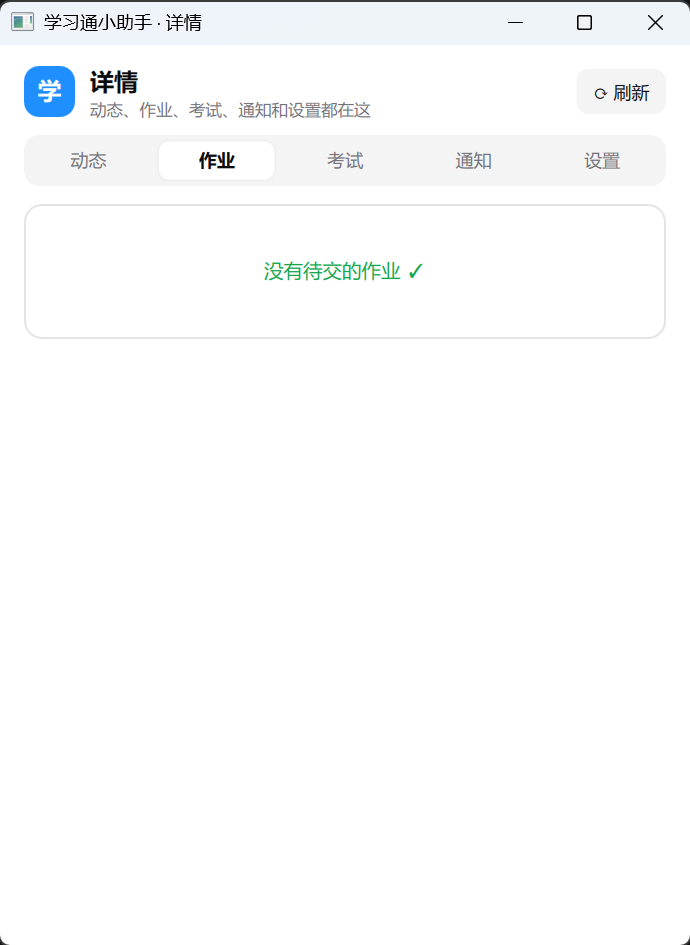
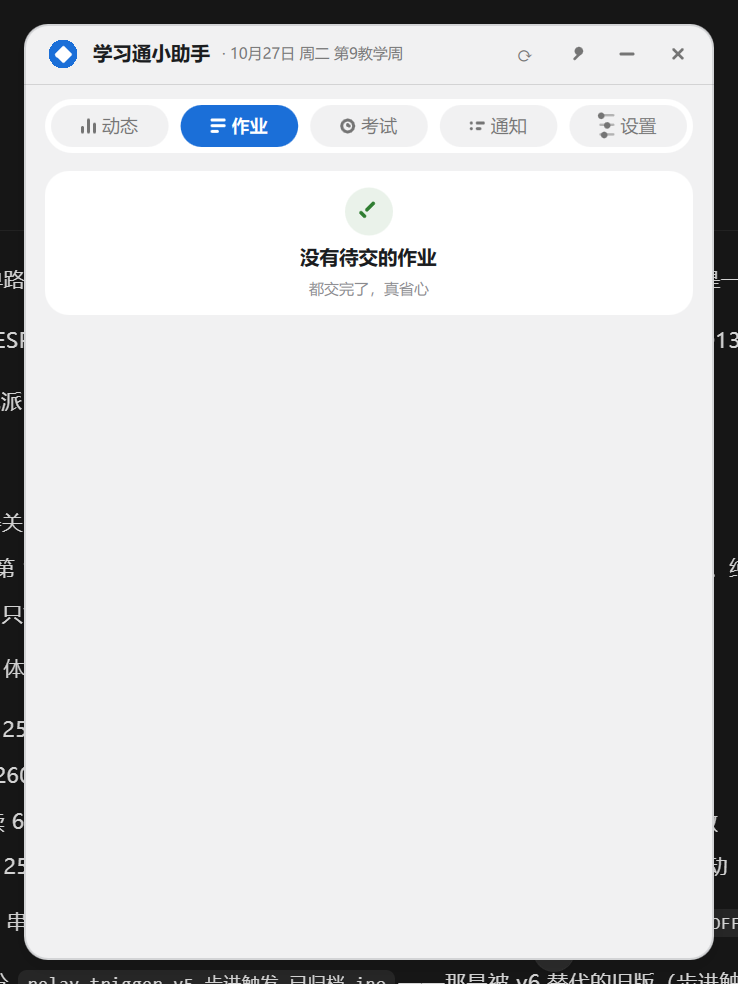
chore: 项目更名 xuexitong-cli v2.0.0 + README/截图全面整理
- pyproject: name=xuexitong-cli version=2.0.0，入口规范化 xuexitong-mcp/xuexitong-cli/xxt/xuexitong-assistant，Homepage 指向新仓
- README: 三件套定位（CLI+MCP+桌面助手）、CLI 补 next/chapters/notice --full/hw --course 与 --json 全命令说明、桌面助手 v4.0 段落（FLstyle/无框详情窗/单窗口在场/动效）、安装与配置路径全部指向新仓
- 截图全部换 R8 最新 UI；移除含第三方发件人姓名的通知页截图
- 清理误入库调试台架 _r2_shots.py；ics PRODID/UID 命名空间随项目名更新
- 推送前凭据扫描通过（敏感运行期文件零跟踪、内容无凭据命中）

Changed region(s): [[0.0, 0.0, 1.0, 1.0], [0.3652, 0.2455, 0.6087, 0.3069], [0.6391, 0.1228, 0.7304, 0.1841]]

diff --git a/xuexitong_mcp/client.py b/xuexitong_mcp/client.py
@@ -354,7 +354,7 @@ def build_ics(lessons: list[dict], curriculum: dict, cal_name: str = "课表") -
     if not section_times:
         raise RuntimeError("课表缺少 lessonTimeConfigArray（节次时间表），无法确定上下课时间")
     lines = ["BEGIN:VCALENDAR", "VERSION:2.0",
-             "PRODID:-//Xuexitong-mcp//schedule//CN",
+             "PRODID:-//xuexitong-cli//schedule//CN",
              f"X-WR-CALNAME:{escape_ics(cal_name)}"]
     for les in lessons:
         begin = int(les.get("beginNumber") or 1)
@@ -368,7 +368,7 @@ def build_ics(lessons: list[dict], curriculum: dict, cal_name: str = "课表") -
         dow = int(les.get("dayOfWeek") or 1)
         for w in expand_weeks(les.get("weeks")):
             day = first_monday + timedelta(days=(w - 1) * 7 + dow - 1)
-            uid = f"{les.get('lessonId') or 'l'}-{begin}-{w}@Xuexitong-mcp"
+            uid = f"{les.get('lessonId') or 'l'}-{begin}-{w}@xuexitong-cli"
             lines += ["BEGIN:VEVENT",
                       f"UID:{uid}",
                       f"SUMMARY:{escape_ics(name)}",

diff --git a/xuexitong_server.py b/xuexitong_server.py
@@ -1,9 +1,9 @@
 # -*- coding: utf-8 -*-
-r"""Xuexitong-mcp 兼容入口。
+r"""直接运行入口（兼容旧 MCP 配置写法）。
 
 旧版 MCP 配置直接指向本文件；实际实现已重构为 xuexitong_mcp/ 包
 （client.py 接口层 + server.py 工具层），行为与旧单文件版兼容。
-新装推荐用 `pip install .` 后运行 `Xuexitong-mcp` 或 `python -m xuexitong_mcp`。
+新装推荐用 `pip install .` 后运行 `xuexitong-mcp` 或 `python -m xuexitong_mcp`。
 
 工具总览（16 个，全部只读查询）：
     login            登录并持久化会话

diff --git a/xuexitong_mcp/server.py b/xuexitong_mcp/server.py
@@ -489,7 +489,7 @@ def list_pan_files(folder_id: str = "") -> str:
 
 
 def main() -> None:
-    """stdio 入口（python -m xuexitong_mcp / Xuexitong-mcp 命令）。"""
+    """stdio 入口（python -m xuexitong_mcp / xuexitong-mcp 命令）。"""
     mcp.run()
 
 

diff --git a/xuexitong_mcp/__init__.py b/xuexitong_mcp/__init__.py
@@ -1,5 +1,5 @@
 # -*- coding: utf-8 -*-
-"""Xuexitong-mcp — 学习通（超星）只读查询 MCP Server。"""
+"""xuexitong-cli — 学习通（超星）只读查询 MCP Server。"""
 
 __version__ = "1.4.1"
 __all__ = ["__version__"]

diff --git a/tests/run_tests.py b/tests/run_tests.py
@@ -1,5 +1,5 @@
 # -*- coding: utf-8 -*-
-"""Xuexitong-mcp 纯逻辑单元测试。
+"""xuexitong-cli 纯逻辑单元测试。
 
 零依赖可直接运行：  python tests/run_tests.py
 也可用 pytest：     pytest tests/ -v

diff --git a/README.md b/README.md
@@ -1,10 +1,10 @@
-# Xuexitong-mcp
+# xuexitong-cli
 
-> 原名 `chaoxing-mcp`，2026-09 起更名为 `Xuexitong-mcp`（GitHub 旧地址自动重定向，包名同步改为 `xuexitong_mcp`）。
+> 曾用名 `chaoxing-mcp` → `Xuexitong-mcp`（GitHub 旧地址自动重定向，Python 包名保持 `xuexitong_mcp` 不变）。
 
-学习通（超星）MCP Server + 桌面小助手 —— 把你的课表（含 .ics 日历导出）、作业截止、考试、章节进度、通知、云盘接进任意 MCP 客户端（ZCode / Claude Desktop / Cursor 等），或在桌面上挂一个常驻的"学习通小助手"悬浮窗。
+学习通（超星）三件套：**命令行 `xxt` + MCP Server + 桌面常驻小助手** —— 课表（含 .ics 日历导出）、作业截止、考试、章节任务点、通知、资料下载、云盘，全只读。终端党用 `xxt`，agent 党接 MCP（ZCode / Claude Desktop / Cursor 等），不想动手就挂桌面悬浮窗让它替你盯着。
 
-全部接口均经真实账号实测验证（2026-09）。
+全部接口均经真实账号实测验证（2026-09 ～ 2026-10）。
 
 ## 工具列表（16 个）
 
@@ -61,15 +61,15 @@
 ## 安装
 
 ```bash
-git clone https://github.com/DanMo661/Xuexitong-mcp.git
-cd Xuexitong-mcp
+git clone https://github.com/DanMo661/xuexitong-cli.git
+cd xuexitong-cli
 pip install -r requirements.txt   # requests / pycryptodome / mcp / PySide6 / windows-toasts / pywin32
 ```
 
 Python >= 3.10。也可以安装为命令（可选）：
 
 ```bash
-pip install .        # 之后得到 Xuexitong-mcp 命令，等价于 python -m xuexitong_mcp
+pip install .        # 得到 xuexitong-mcp / xuexitong-cli / xxt / xuexitong-assistant 四个命令
 ```
 
 ## 凭据配置（三选一，优先级从高到低）
@@ -89,18 +89,18 @@ copy config.example.json config.json   # Linux: cp
 
 ```jsonc
 // 1. 源码直接运行（clone 后免安装）
-{ "command": "python", "args": ["D:/path/to/Xuexitong-mcp/xuexitong_server.py"] }
+{ "command": "python", "args": ["D:/path/to/xuexitong-cli/xuexitong_server.py"] }
 
 // 2. 模块方式运行
-{ "command": "python", "args": ["-m", "xuexitong_mcp"], "cwd": "D:/path/to/Xuexitong-mcp" }
+{ "command": "python", "args": ["-m", "xuexitong_mcp"], "cwd": "D:/path/to/xuexitong-cli" }
 
 // 3. pip install . 之后用命令名
-{ "command": "Xuexitong-mcp" }
+{ "command": "xuexitong-mcp" }
 ```
 
 外层按客户端惯例包一层：ZCode 写在 `~/.zcode/cli/config.json` 的 `mcp.servers` 下，Claude Desktop 写在 `claude_desktop_config.json` 的 `mcpServers` 下。Windows 下 `command` 建议写 python 绝对路径（如 `D:/Python/python.exe`）。
 
-## 学习通小助手（桌面常驻助手 v3.0）
+## 学习通小助手（桌面常驻助手 v4.0）
 
 不想开对话、也不想再点开学习通 App？`assistant/` 是完整的桌面常驻助手：**巡检引擎 + Windows 通知 + PySide6/QML 悬浮窗 + 托盘**，学习通有新作业/资料/通知/出分时主动送达，你只需要看一眼桌面。
 
@@ -124,23 +124,25 @@ python -m venv .venv
 - **人性化规则**：默认免打扰 23:00–07:30；正在上课时自动静默（下课补弹）；红色只留给紧急事项
 - **通知通道**：Windows 原生 Toast（进通知中心，**可点击直接跳到对应页面**；windows-toasts 优先、winotify 回退）+ 应用内时间线 + 可选邮件备份通道（SMTP 授权码，默认关）
 
-### 悬浮窗（cc-switch 浅色设计语言）
+### 悬浮窗（FLstyle 工具类设计语言）
 
-- **迷你态**（360×64）：品牌块 + 三态状态点（上课中蓝呼吸 / 30 分钟内要上课橙 / 平时灰）+ 当前/下一节课与倒计时；点顶栏展开收起；**Alt+Shift+C 全局热键**随时唤起/隐藏；拖拽贴边磁吸
-- **展开卡**（360×540，四标签页）：
-  - **今天**：课程手风琴（进行中/同时段/已结束三态，点行展开老师·节次·周次）、DDL 横幅、考试横幅、任务点缺口摘要
-  - **课表**：周网格（时间轨当前节胶囊 + **当前时间红线**、连堂合并满铺色块、周次导航翻周）
+- **迷你态**（360×64）：花形印章品牌位 + 三态状态点（上课中蓝呼吸 / 30 分钟内要上课橙 / 平时灰）+ 当前/下一节课与倒计时药丸；点顶栏展开收起；**Alt+Shift+C 全局热键**随时唤起/隐藏；拖拽贴边磁吸
+- **展开卡**（360×540，四标签页，白色 Stadium 分段器导航）：
+  - **今天**：课程手风琴（进行中/同时段/已结束三态，点行展开老师·节次·周次）、今日概览卡、DDL 横幅、考试横幅、任务点缺口摘要
+  - **课表**：周网格（时间轨当前节胶囊 + **当前时间红线**、连堂合并满铺色块、按住拖动翻周）
   - **作业**：DDL 看板（紧迫度变色、过期沉底）；**右键作业卡 → 在学习通打开 / 不再提醒**（自动复制作业名）
   - **动态**：巡检事件时间线（出分带分数、考试带时间）
-- **详情窗**（托盘/右键进入，五标签页）：动态 / 作业（悬停出「去交 ↗」「✕ 忽略」按钮，底部恢复入口）/ 考试+任务点 / 通知中心（全部·未读过滤）/ 设置（巡检间隔、免打扰、Toast、开机自启、**导出课表 .ics 到手机日历**、邮件）
-- **托盘常驻**：双击显隐小窗；右键菜单承载全部入口；单实例锁防双开；位置自动记忆
+- **详情窗**（460×624，无框自绘标题栏：拖拽/置顶图钉/最小化/关闭）：动态 / 作业（悬停出「去交 ↗」「✕ 忽略」按钮，底部恢复入口）/ 考试+任务点 / 通知中心（全部·未读过滤）/ 设置（巡检间隔、免打扰、Toast、开机自启、**导出课表 .ics 到手机日历**、邮件）
+- **单窗口在场**：小窗与详情窗同一时刻只显示一个——详情窗打开时小窗自动退场，关闭/最小化详情窗即回到小窗；详情窗位置记忆
+- **动效**：FLstyle 值渐变体系——开关窗淡入淡出、页切换交叉淡化、列表卡片错峰入场、分段器原位迁移、进度条宽度渐变（零位移）
+- **托盘常驻**：双击显隐小窗；右键菜单承载全部入口；单实例锁防双开（命名互斥量 + 具名管道双保险）；位置自动记忆
 - **开机自启**：设置页一键开关（HKCU Run 注册表直指 pythonw 无黑框，可在任务管理器启动页管理）
 
 ![小窗-今天](docs/shot_t0.png)
 ![小窗-课表](docs/shot_t1.png)
 ![小窗-作业](docs/shot_t2.png)
+![详情窗-动态时间线](docs/shot_d0.png)
 ![详情窗-考试与任务点](docs/shot_d2.png)
-![详情窗-通知中心](docs/shot_d3.png)
 
 ### 无 GUI 模式（服务器/调试）
 
@@ -150,7 +152,7 @@ python -m venv .venv
 .venv\Scripts\python -m assistant.app --screenshot out.png   # UI 自截图
 ```
 
-## 命令行 xxt（xuexitong-cli，v1.0）
+## 命令行 xxt
 
 不打开浏览器、不进 GUI，终端里直接查——像 bili-cli 之于 B 站。安装
 （`pip install -e .`）后两个入口等价：`xuexitong-cli` / `xxt`，也可以
@@ -161,12 +163,14 @@ python -m venv .venv
 
 ```bash
 xxt today                     # 今天有什么课（含进行中/已结束状态）
-xxt today --json              # JSON 输出（today/hw/exam/notice/progress 均支持）
+xxt next                      # 下一节课 + 人话倒计时（今天课上完自动找明天/下周，14 天范围）
 xxt week [12]                 # 本周 / 第 12 周课表（按天分组）
 xxt hw                        # 待交作业截止看板（默认只看本学期）
+xxt hw --course 数字信号        # 只看一门课的作业
 xxt exam                      # 考试安排（默认只看本学期，--all 看全部）
-xxt notice [--unread]         # 通知中心
+xxt notice [--unread]         # 通知中心（--full 展开正文）
 xxt progress                  # 任务点进度（默认只看本学期）
+xxt chapters 数字信号处理       # 章节任务点明细树（--todo 只看没刷完的小节）
 xxt courses                   # 课程列表（★=本学期课表内，含任课老师）
 xxt whoami                    # 姓名/学校/uid
 xxt materials 数字信号处理    # 课程资料区（含下载用编号）
@@ -177,13 +181,12 @@ xxt pan <文件夹id>            # 云盘下钻一层
 xxt ics -o 课表.ics           # 全学期课表导出日历
 ```
 
-- `today` 秒开：桌面助手课表缓存（`store.json` 的 `schedule_cache`）距
+- `today` / `next` 秒开：桌面助手课表缓存（`store.json` 的 `schedule_cache`）距
   保存不足 24h 就直接用缓存，零网络立即返回；过期/缺失回退在线拉取
   （教学周由学期锚点日期推导，不吃存盘时的"当前周"旧值）。`week`/`ics`
   查任意周则一律缓存优先
-- `--json`（today/hw/exam/notice/progress）：输出 UTF-8 JSON 数组，
-  时间统一 `YYYY-MM-DD HH:MM` 字符串，无表格/进度条/颜色码，方便脚本
-  与 agent 消费
+- `--json` **全部 14 个查询命令支持**：输出 UTF-8 JSON，时间统一
+  `YYYY-MM-DD HH:MM` 字符串，无表格/进度条/颜色码，方便脚本与 agent 消费
 - **下载 9010 反爬**：下载接口可能触发学习通人机验证（下载被 302 到
   antispider 页，报错会明确提示）。`xxt download` 在终端交互模式下会
   自动取验证码图存 `~\.xxt_captcha.png`、提示人工输入 4 位码后重试
@@ -336,7 +339,7 @@ xuexitong_mcp/
 xuexitong_server.py  # 兼容旧配置的直接运行入口
 学习通小助手.bat    # Windows 双击启动桌面小助手（pythonw，无控制台）
 tests/run_tests.py  # 纯逻辑单测（零依赖：python tests/run_tests.py，也兼容 pytest）
-pyproject.toml      # pip install . 打包配置（Xuexitong-mcp / xuexitong-assistant 两个命令）
+pyproject.toml      # pip install . 打包配置（xuexitong-mcp / xuexitong-cli / xxt / xuexitong-assistant 四个命令）
 ```
 
 ## License

diff --git a/CLAUDE.md b/CLAUDE.md
@@ -1,4 +1,4 @@
-# Xuexitong-mcp 项目规范（v2.1 桌面小窗产品化）
+# xuexitong-cli 项目规范（v2.1 桌面小窗产品化）
 
 ## 定位
 
